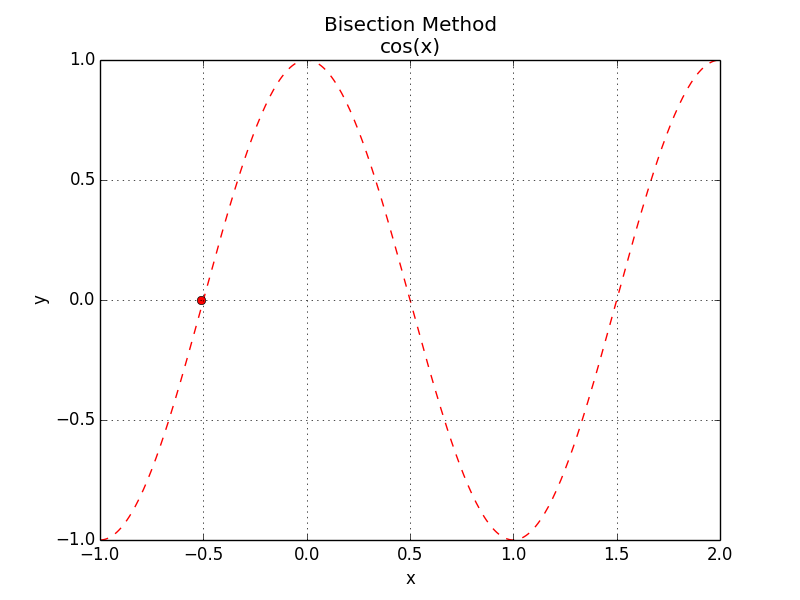
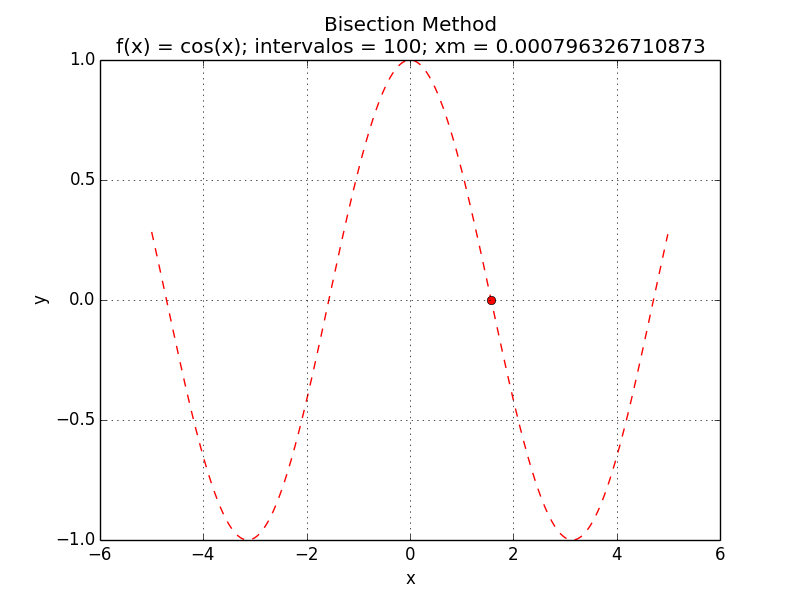
Updated documentation and images

diff --git a/README.md b/README.md
@@ -1,9 +1,37 @@
 # Numerical Calculation
 
 * Linear fit: Performs the linear adjustment with two variables
-* Trapezoidal rule: Calculates the area of an exponential function by the trapezoidal rule
-* Bisection method: Finds the 'zero' point in the range
+* Trapezoidal rule: Calculates the area of a function by the trapezoidal rule
+* Bisection method: Finds the first 'zero' point in the range
 
 ![Linear Fit](https://raw.githubusercontent.com/kayroncabral/numerical-calculation/master/images/linear-fit.png "Linear fit")
+
+> python linearfit.py ``<start,stop>`` ``<function>``
+
+- ``<start,stop>``: range of values to x
+- ``<function>``: funcion to generate y values
+
+e.g:
+> python linearfit.py 0,5 "sin(x)"
+
 ![Trapezoidal Rule](https://raw.githubusercontent.com/kayroncabral/numerical-calculation/master/images/trapezoidal-rule.png "Trapezoidal rule")
+
+> python trapezoidal.py ``<iteration>`` ``<start,stop>`` ``<function>``
+
+- ``<iteration>``: number of iterations
+- ``<start,stop>``: range of values to x
+- ``<function>``: funcion to generate y values
+
+e.g:
+> python trapezoidal.py 20 0,5 "exp(x)"
+
 ![Bisection Method](https://raw.githubusercontent.com/kayroncabral/numerical-calculation/master/images/bisection-method.png "Bisection method")
+
+> python bisection.py ``<iteration>`` ``<start,stop,distance>`` ``<function>``
+
+- ``<iteration>``: number of iterations
+- ``<start,stop,distance>``: range of values to x and distance between values
+- ``<function>``: funcion to generate y values
+
+e.g:
+> python bisection.py 100 -5,5,0.01 "cos(x)"
